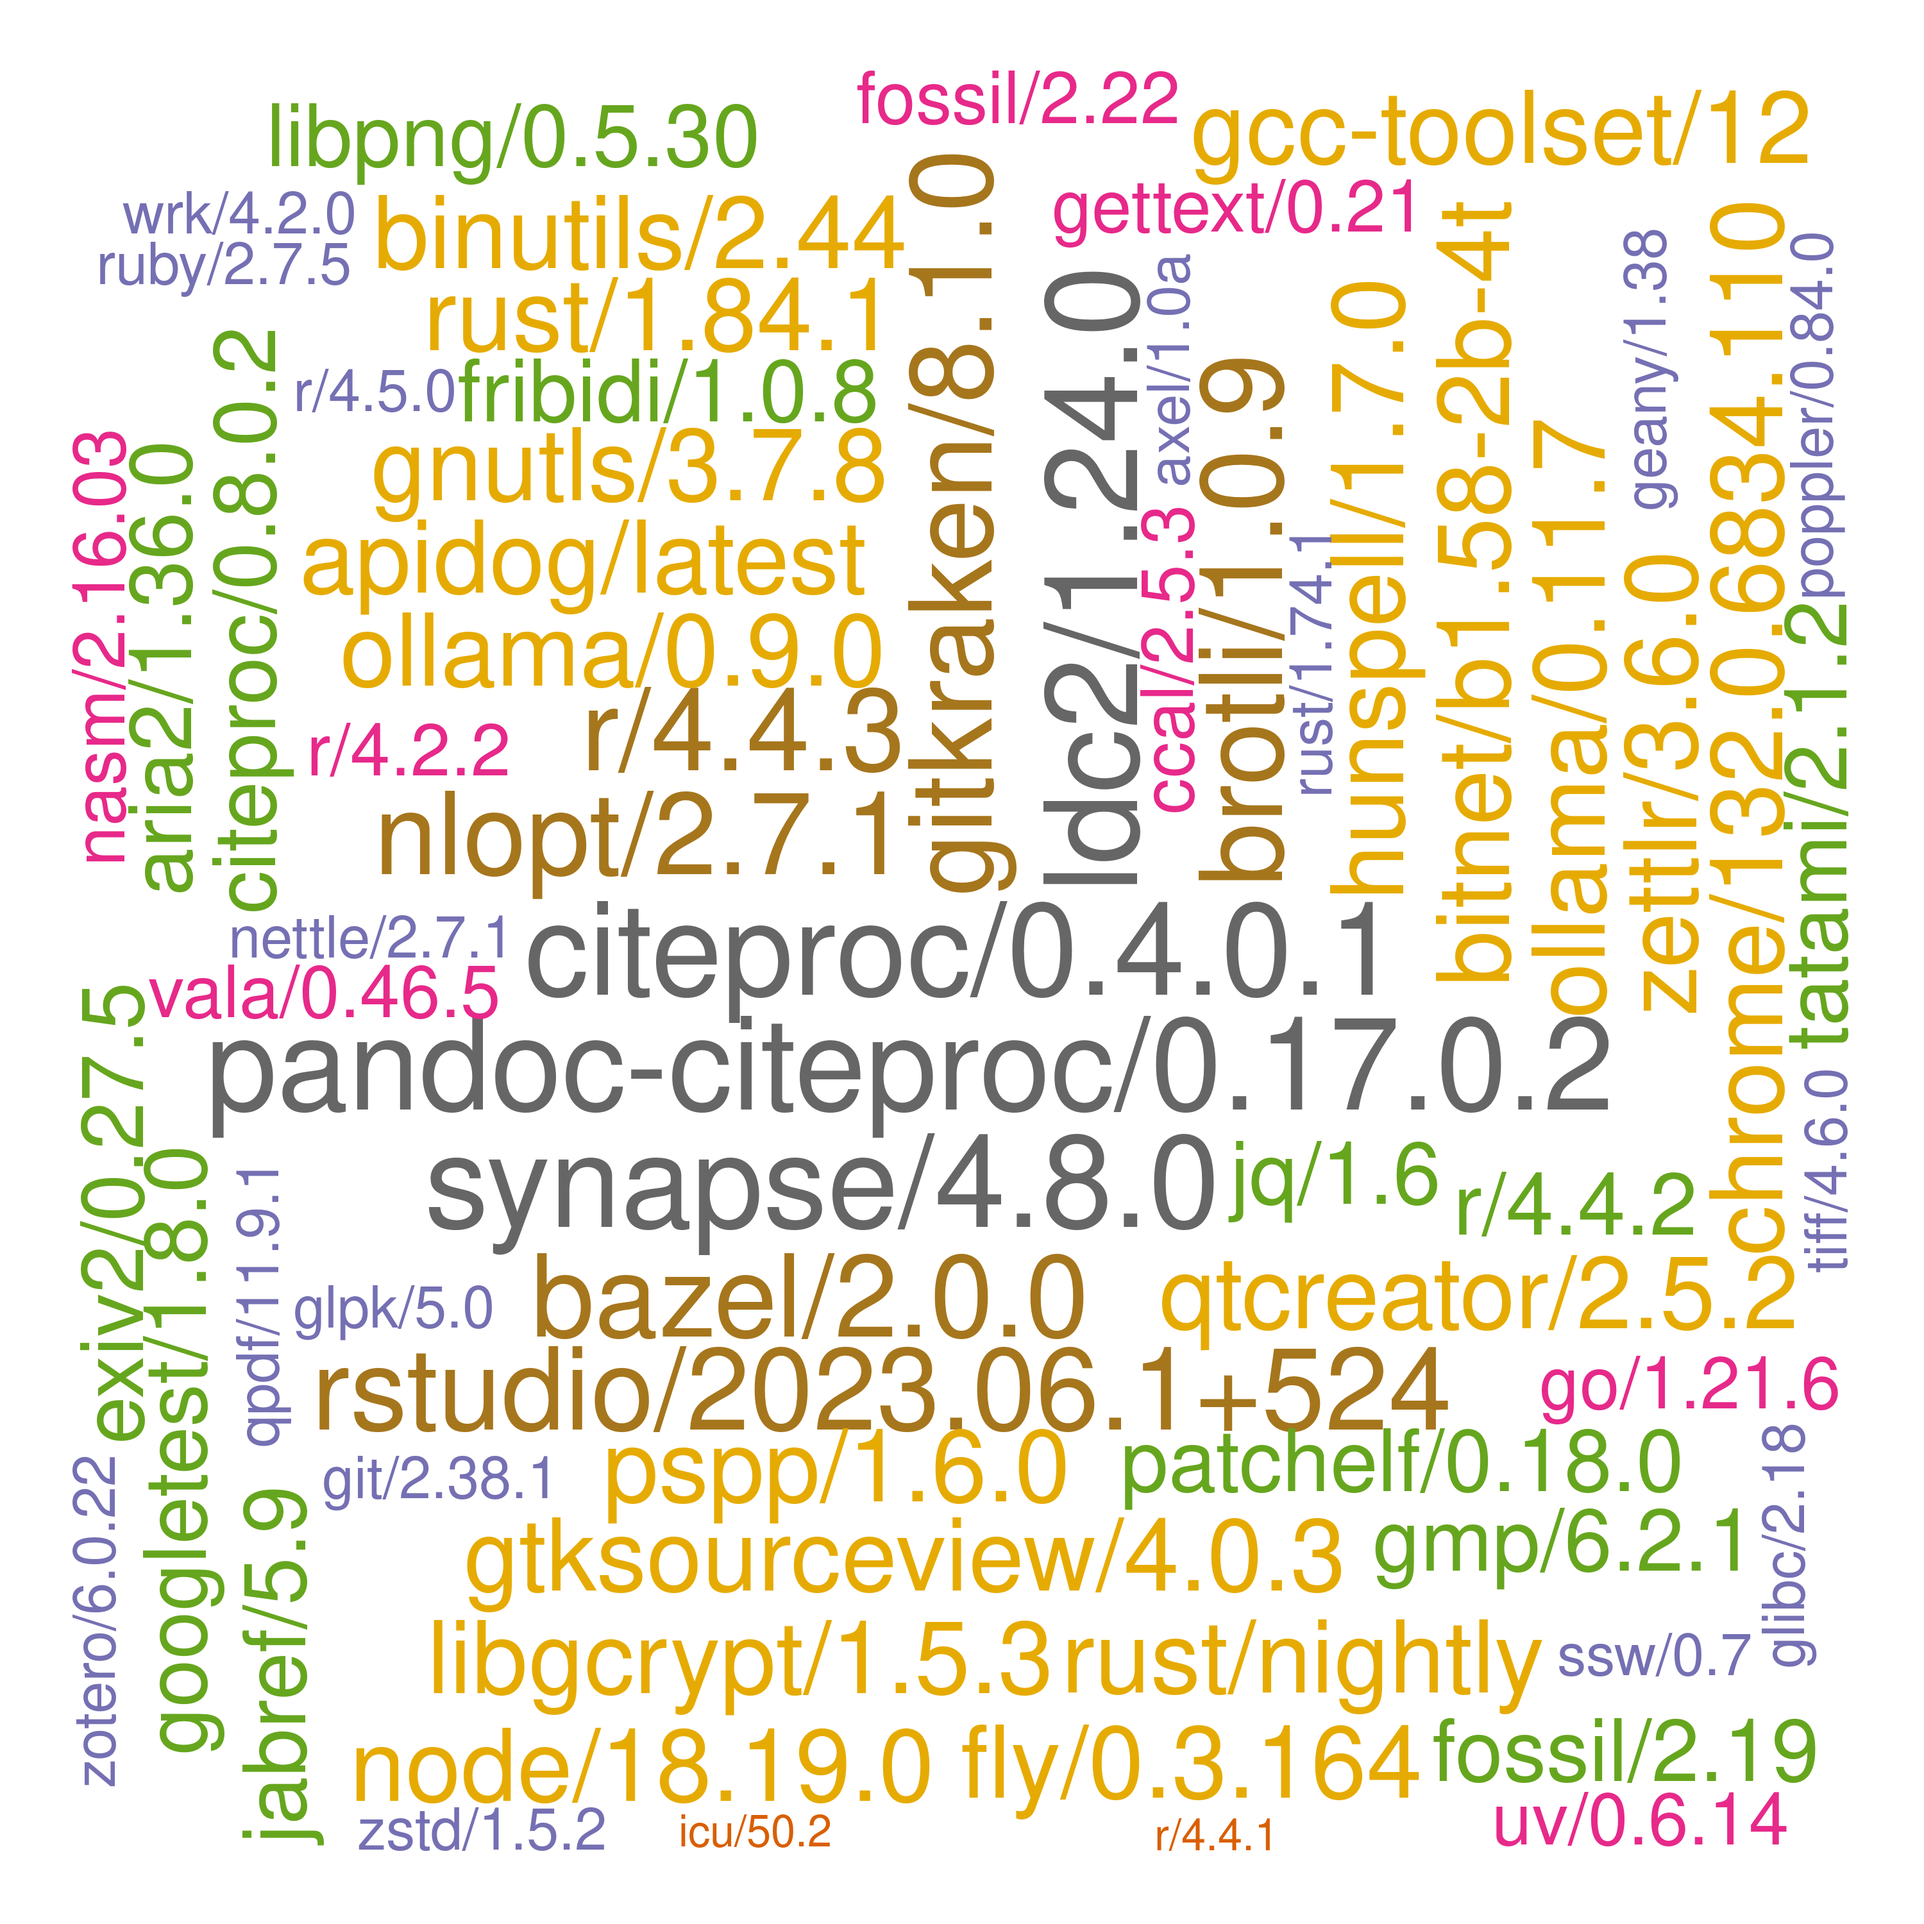
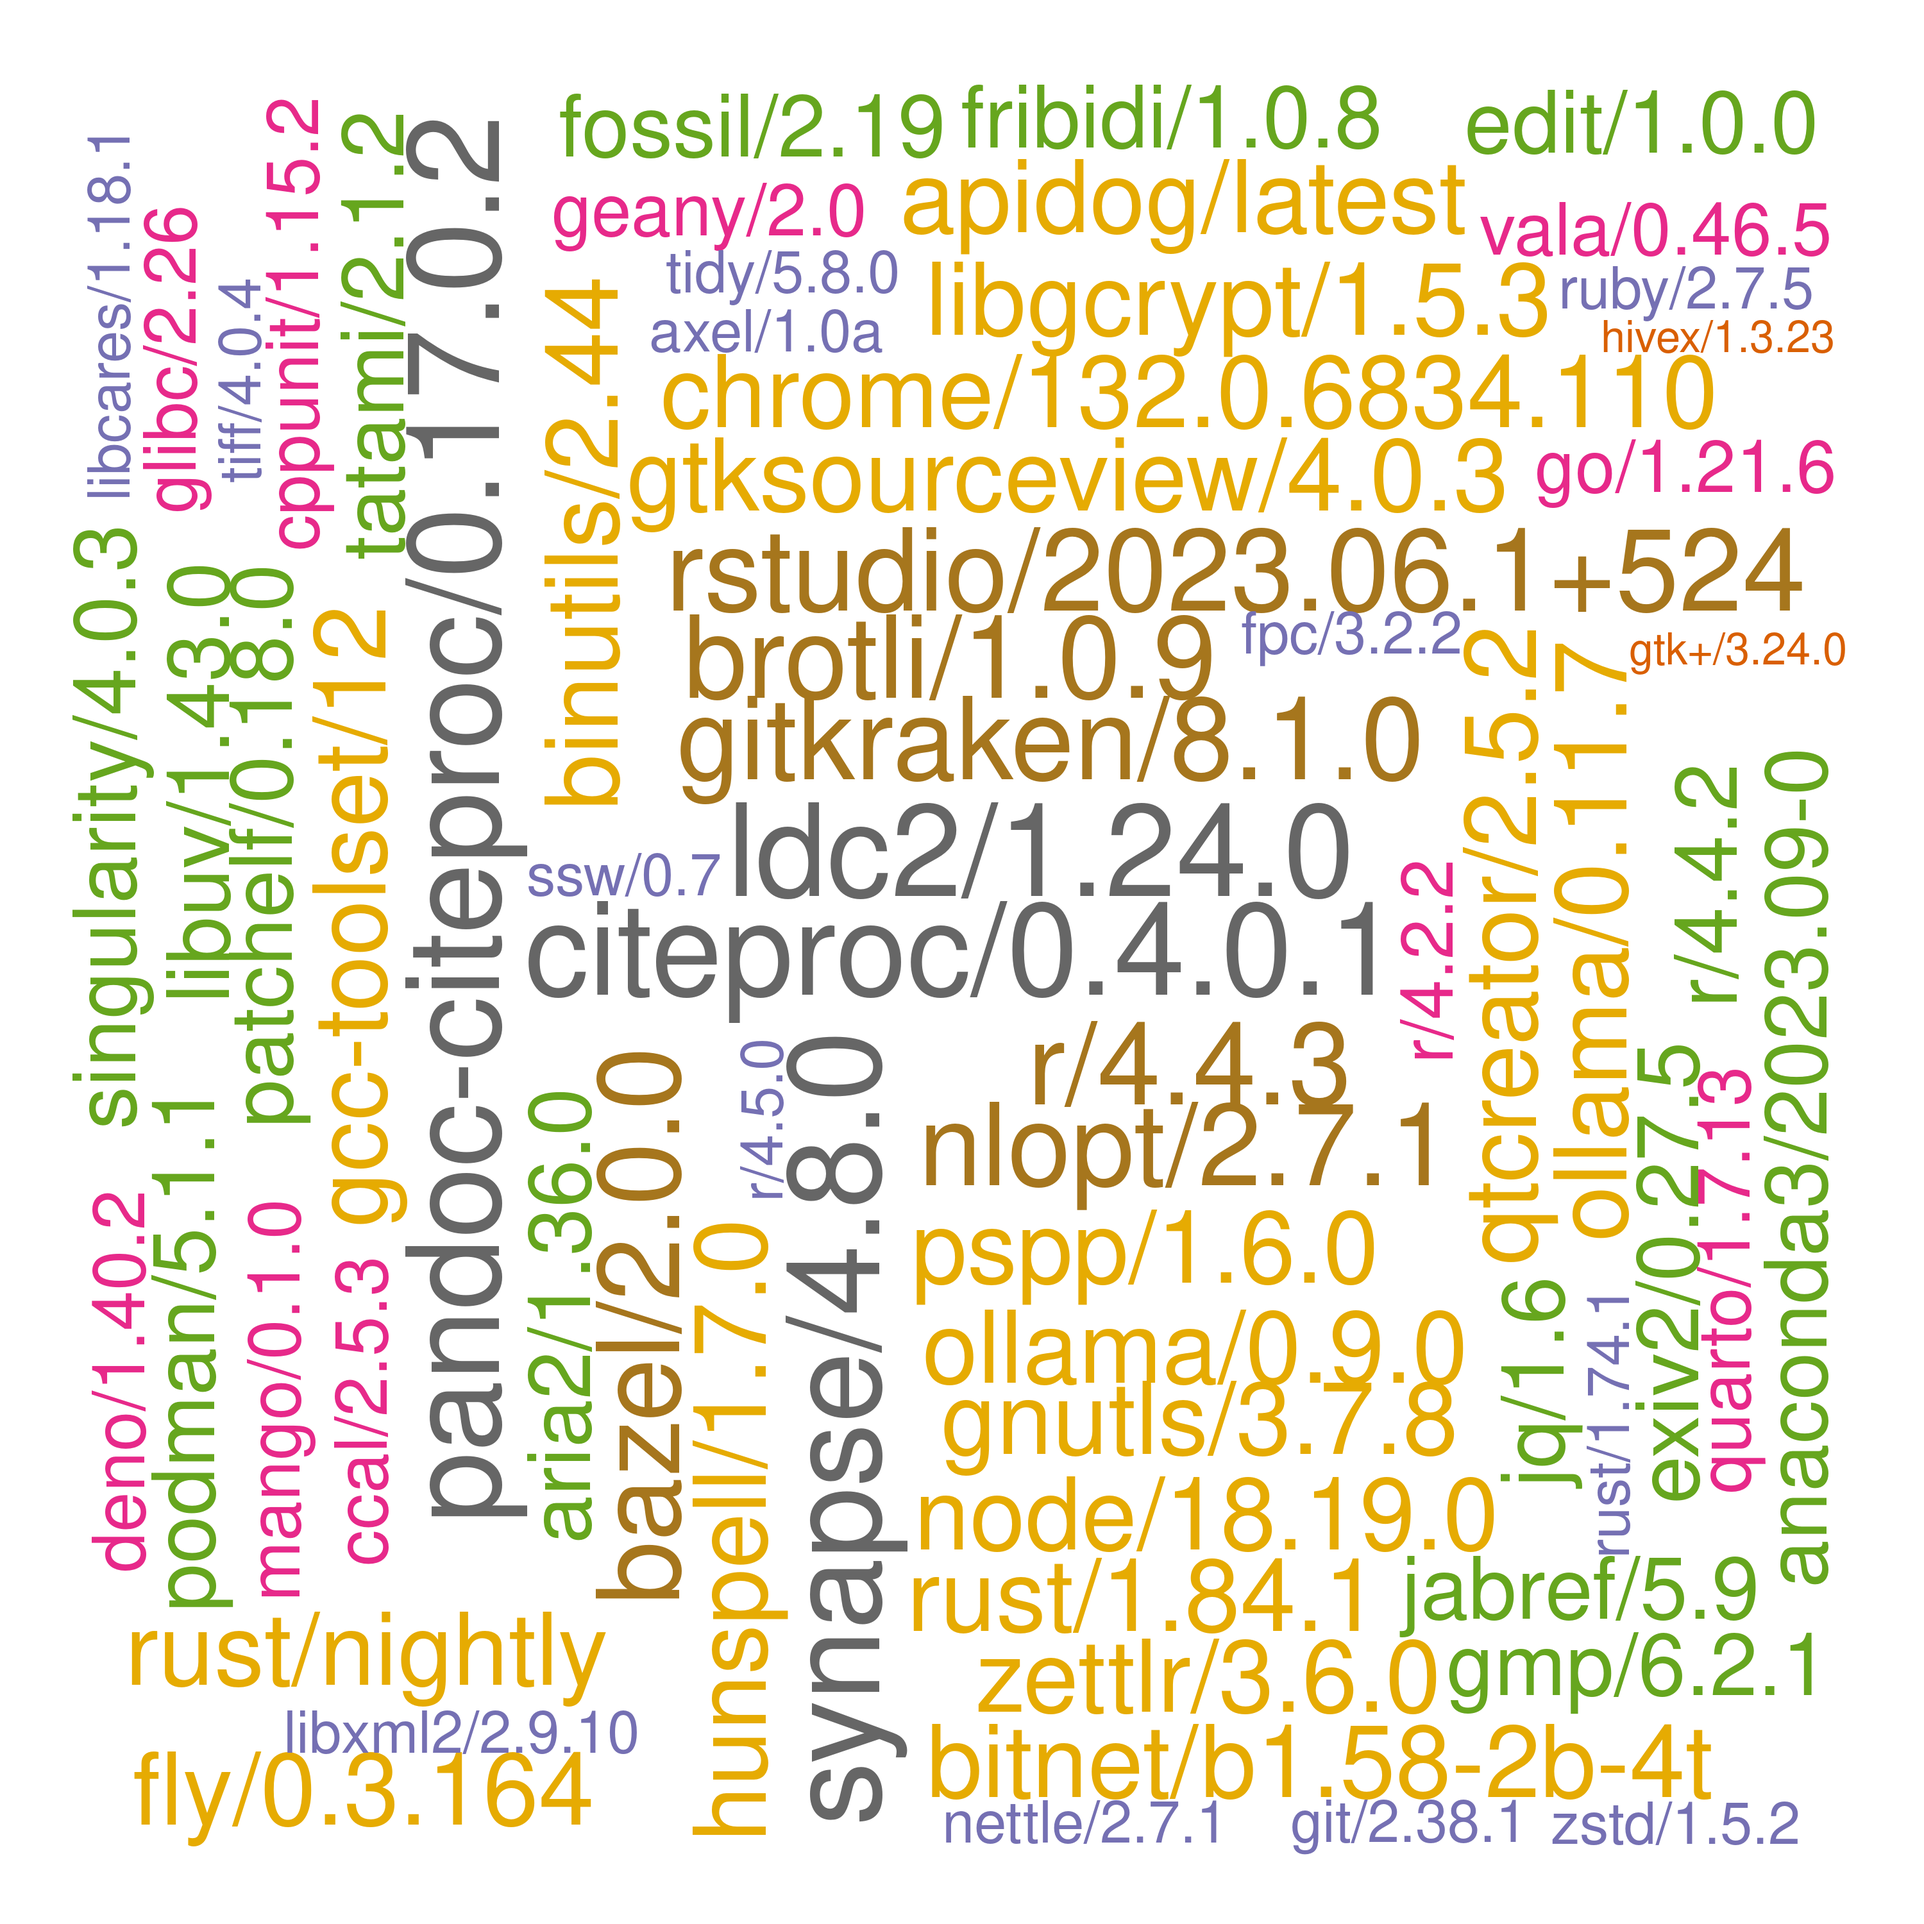
./

Changed region(s): [[0.031, 0.031, 0.961, 0.961]]

diff --git a/systems/ceuadmin.md b/systems/ceuadmin.md
@@ -80,31 +80,31 @@ The current list is as follows,
 [249] "PhySO"                  "picard"                 "pigz"                   "pkg-config"
 [253] "plink"                  "plink-bgi"              "plinkseq"               "pngquant"
 [257] "podman"                 "PoGo"                   "polyphen"               "poppler"
-[261] "popt"                   "proj"                   "PRSice"                 "pspp"
-[265] "pulsar"                 "PWCoCo"                 "pwiz"                   "python"
-[269] "qctool"                 "qemu"                   "qpdf"                   "qt"
-[273] "qtcreator"              "QTLtools"               "quarto"                 "quicktest"
-[277] "R"                      "raremetal"              "rclone"                 "readline"
-[281] "regenie"                "regtools"               "relate"                 "RHHsoftware"
-[285] "RSEM"                   "rst2pdf"                "rstudio"                "rtg-tools"
-[289] "rtmpdump"               "ruby"                   "rust"                   "sage"
-[293] "samtools"               "Scala"                  "scGPT"                  "scl-utils"
-[297] "selscan"                "seqkit"                 "SEQPower"               "shapeit"
-[301] "shapeit5"               "simNGS"                 "singularity"            "SMR"
-[305] "snakemake"              "sniffles"               "SNP2HLA"                "snptest"
-[309] "spread-sheet-widget"    "spyder"                 "sqlite"                 "sra-tools"
-[313] "sshpass"                "ssw"                    "STAR"                   "stata"
-[317] "SurvivalAnalysis"       "SurvivalKit"            "SuSiEx"                 "SVanalyzer"
-[321] "Swift"                  "SYMPHONY"               "Synapse"                "tabix"
-[325] "tandem"                 "tatami"                 "tesseract"              "texinfo"
-[329] "ThermoRawFileParser"    "ThermoRawFileParserGUI" "thunderbird"            "tidy"
-[333] "tiff"                   "trinculo"               "trousers"               "truvari"
-[337] "Typora"                 "unbound"                "uv"                     "vala"
-[341] "VarScan"                "vcftools"               "vdo"                    "VEGAS2"
-[345] "verifyBamID"            "VirtualBox"             "VSCode"                 "VSCodium"
-[349] "vte"                    "wasi-sdk"               "Windsurf"               "wine"
-[353] "wrk"                    "xpdf"                   "yaml-cpp"               "Zettlr"
-[357] "Zotero"                 "zstd"
+[261] "popt"                   "postman"                "proj"                   "PRSice"
+[265] "pspp"                   "pulsar"                 "PWCoCo"                 "pwiz"
+[269] "python"                 "qctool"                 "qemu"                   "qpdf"
+[273] "qt"                     "qtcreator"              "QTLtools"               "quarto"
+[277] "quicktest"              "R"                      "raremetal"              "rclone"
+[281] "readline"               "regenie"                "regtools"               "relate"
+[285] "RHHsoftware"            "RSEM"                   "rst2pdf"                "rstudio"
+[289] "rtg-tools"              "rtmpdump"               "ruby"                   "rust"
+[293] "sage"                   "samtools"               "Scala"                  "scGPT"
+[297] "scl-utils"              "selscan"                "seqkit"                 "SEQPower"
+[301] "shapeit"                "shapeit5"               "simNGS"                 "singularity"
+[305] "SMR"                    "snakemake"              "sniffles"               "SNP2HLA"
+[309] "snptest"                "spread-sheet-widget"    "spyder"                 "sqlite"
+[313] "sra-tools"              "sshpass"                "ssw"                    "STAR"
+[317] "stata"                  "SurvivalAnalysis"       "SurvivalKit"            "SuSiEx"
+[321] "SVanalyzer"             "Swift"                  "SYMPHONY"               "Synapse"
+[325] "tabix"                  "tandem"                 "tatami"                 "tesseract"
+[329] "texinfo"                "ThermoRawFileParser"    "ThermoRawFileParserGUI" "thunderbird"
+[333] "tidy"                   "tiff"                   "trinculo"               "trousers"
+[337] "truvari"                "Typora"                 "unbound"                "uv"
+[341] "vala"                   "VarScan"                "vcftools"               "vdo"
+[345] "VEGAS2"                 "verifyBamID"            "VirtualBox"             "VSCode"
+[349] "VSCodium"               "vte"                    "wasi-sdk"               "Windsurf"
+[353] "wine"                   "wrk"                    "xpdf"                   "yaml-cpp"
+[357] "Zettlr"                 "Zotero"                 "zstd"
 ```
 
 These are wrapped up as :star::star::star: **[modules](https://modules.readthedocs.io/en/latest/index.html)** :star::star::star:.

diff --git a/applications/postman.md b/applications/postman.md
@@ -1,0 +1,48 @@
+---
+sort: 57
+---
+
+# postman
+
+Web: <https://www.postman.com/>
+
+## Latest
+
+```bash
+wget -qO- https://dl.pstmn.io/download/latest/linux64 -O latest.tar.gz
+```
+
+## 10.21.0
+
+This version works under GLIBC 2.28 but bundled with Electron -- some files are deleted to reduce the size from 1.2G to 914MB.
+
+```bash
+export version=10.21.0
+cd $CEUADMIN
+mkdir postman && cd postman
+mkdir "$version" && cd "$version"
+wget -qO- "https://dl.pstmn.io/download/version/${version}/linux64" | \
+tar -xz --strip-components=1
+
+# Go to the Postman app resources folder
+cd /usr/local/Cluster-Apps/ceuadmin/postman/10.21.0/app/resources/app
+
+# 1⃣ Keep only the English locale (adjust 'en-US.pak' if you need another)
+find locales -type f ! -name 'en-US.pak' -delete
+
+# 2⃣ Remove Electron debug symbol files (.pdb)
+find ../../ -type f -name "*.pdb" -delete
+
+# 3⃣ Remove optional cache and temporary data
+rm -rf node_modules/.cache
+rm -rf swiftshader
+
+# 4⃣ Remove unnecessary high-res icons and oversized ICOs
+find . -type f -name '*.icns' -delete
+find . -type f -name '*.ico' -size +200k -delete
+
+# 5⃣ (Optional) Strip symbols from the main binary to save extra space
+strip ../../Postman 2>/dev/null || true
+
+export POSTMAN_DISABLE_AUTO_UPDATE=true
+```

diff --git a/systems/setup.md b/systems/setup.md
@@ -499,6 +499,7 @@ All entries are ordered chronologically.
 | 2025-10-10 | glibc/2.30-5                     | Generic[^glibc]       |
 | 2025-10-17 | ollama/0.12.6                    | Generic[^ollama]      |
 | 2025-10-23 | ccphylo/0.8.5                    | Genetics[^ccphylo]    |
+| 2025-10-25 | postman/10.21.0                  | Generic[^postman]     |
 
 \* CEU or approved users only -- when not indicated can be found out from the folder associated with a module.
 
@@ -2141,3 +2142,7 @@ They are generated from script [setup.sh](setup.sh),
     Phylo.draw(tree)
     plt.show()
     ```
+
+[^postman]: **postman**
+
+    See <https://cambridge-ceu.github.io/csd3/applications/postman.html>.

diff --git a/applications/notes.md b/applications/notes.md
@@ -1,5 +1,5 @@
 ---
-sort: 82
+sort: 83
 ---
 
 # Notes on emsembl-vep

diff --git a/applications/VSCode.md b/applications/VSCode.md
@@ -1,5 +1,5 @@
 ---
-sort: 81
+sort: 82
 ---
 
 # Visual Studio code

diff --git a/applications/SurvivalGWAS_SV.md b/applications/SurvivalGWAS_SV.md
@@ -1,5 +1,5 @@
 ---
-sort: 77
+sort: 78
 ---
 
 # SurvivalGWAS_SV

diff --git a/applications/relate.md b/applications/relate.md
@@ -1,5 +1,5 @@
 ---
-sort: 66
+sort: 67
 layout: default
 ---
 

diff --git a/applications/sra-tools.md b/applications/sra-tools.md
@@ -1,5 +1,5 @@
 ---
-sort: 76
+sort: 77
 ---
 
 # sra-tools

diff --git a/applications/tesseract.md b/applications/tesseract.md
@@ -1,5 +1,5 @@
 ---
-sort: 79
+sort: 80
 ---
 
 # tesseract

diff --git a/applications/SEQPower.md b/applications/SEQPower.md
@@ -1,5 +1,5 @@
 ---
-sort: 71
+sort: 72
 ---
 
 # SEQPower

diff --git a/applications/qtltools.md b/applications/qtltools.md
@@ -1,5 +1,5 @@
 ---
-sort: 62
+sort: 63
 ---
 
 # qtltools

diff --git a/applications/RStudio.md b/applications/RStudio.md
@@ -1,5 +1,5 @@
 ---
-sort: 68
+sort: 69
 ---
 
 # RStudio
